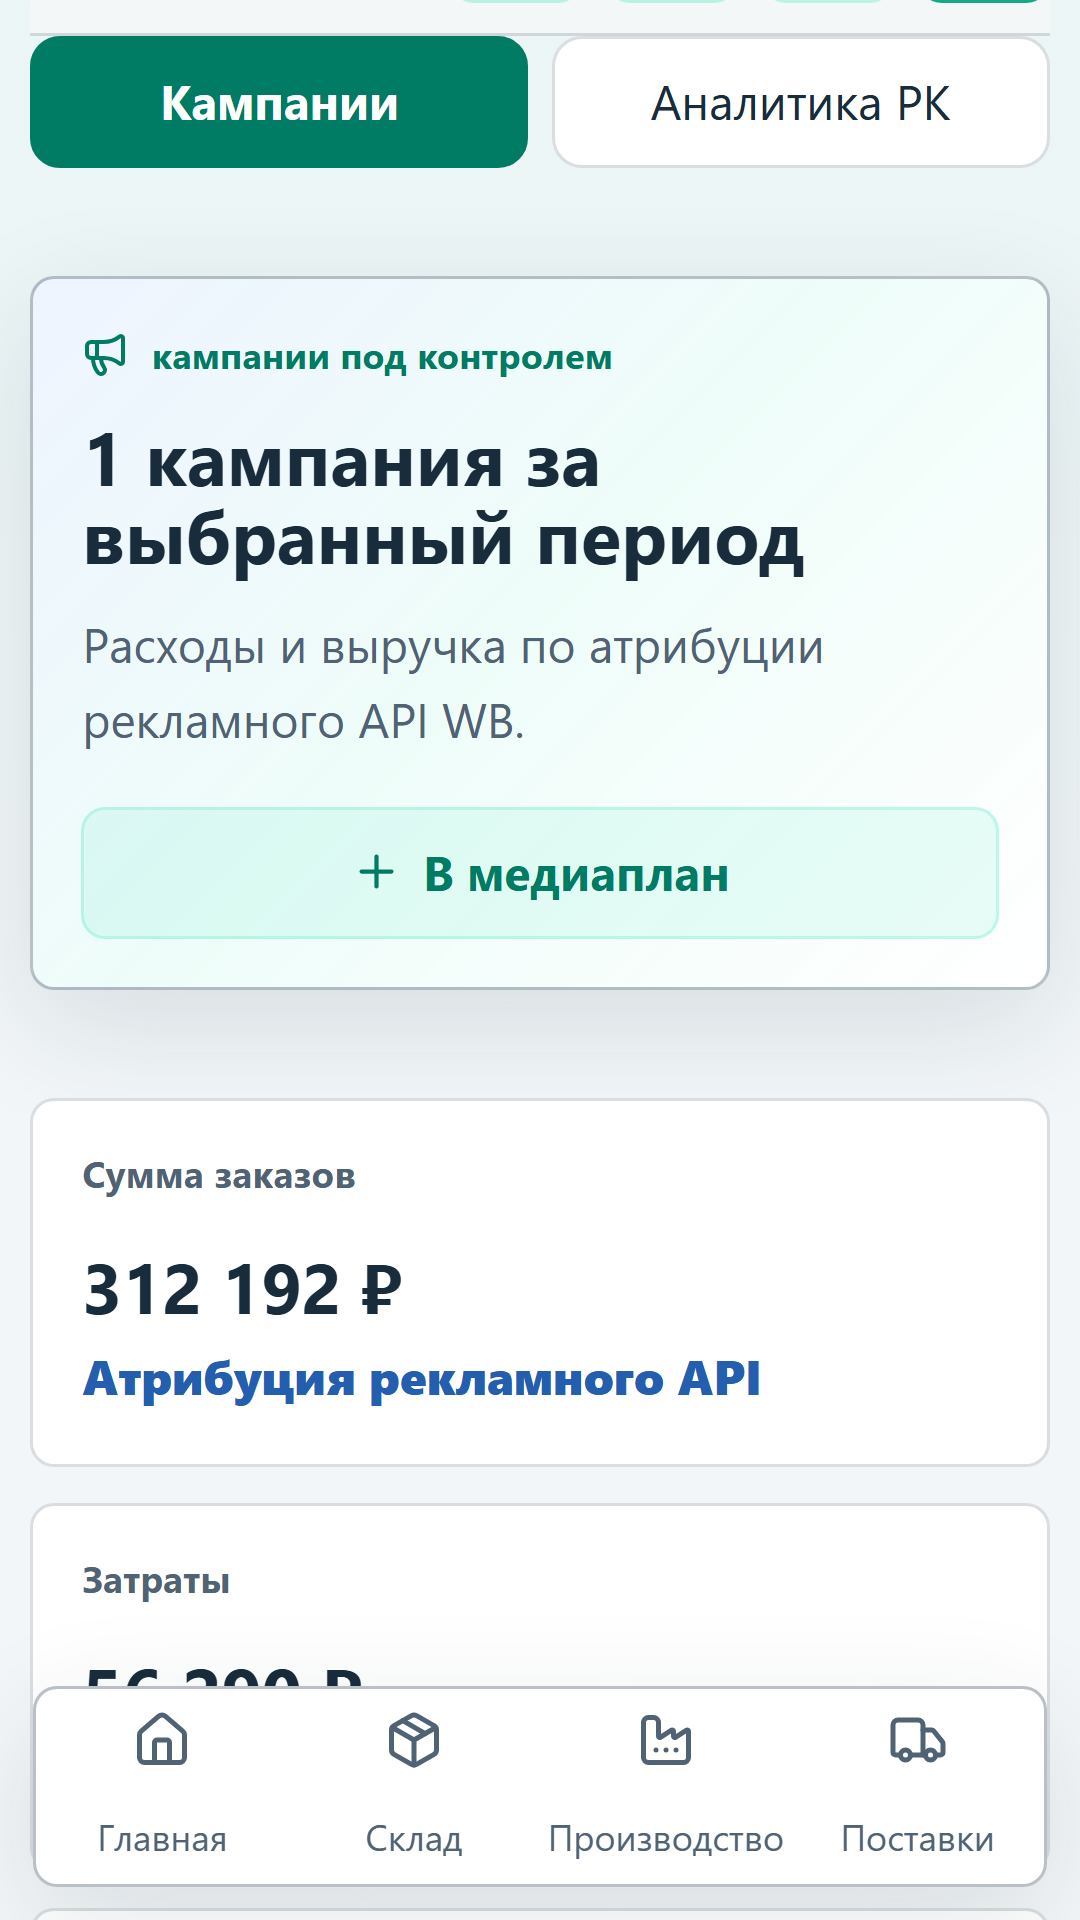
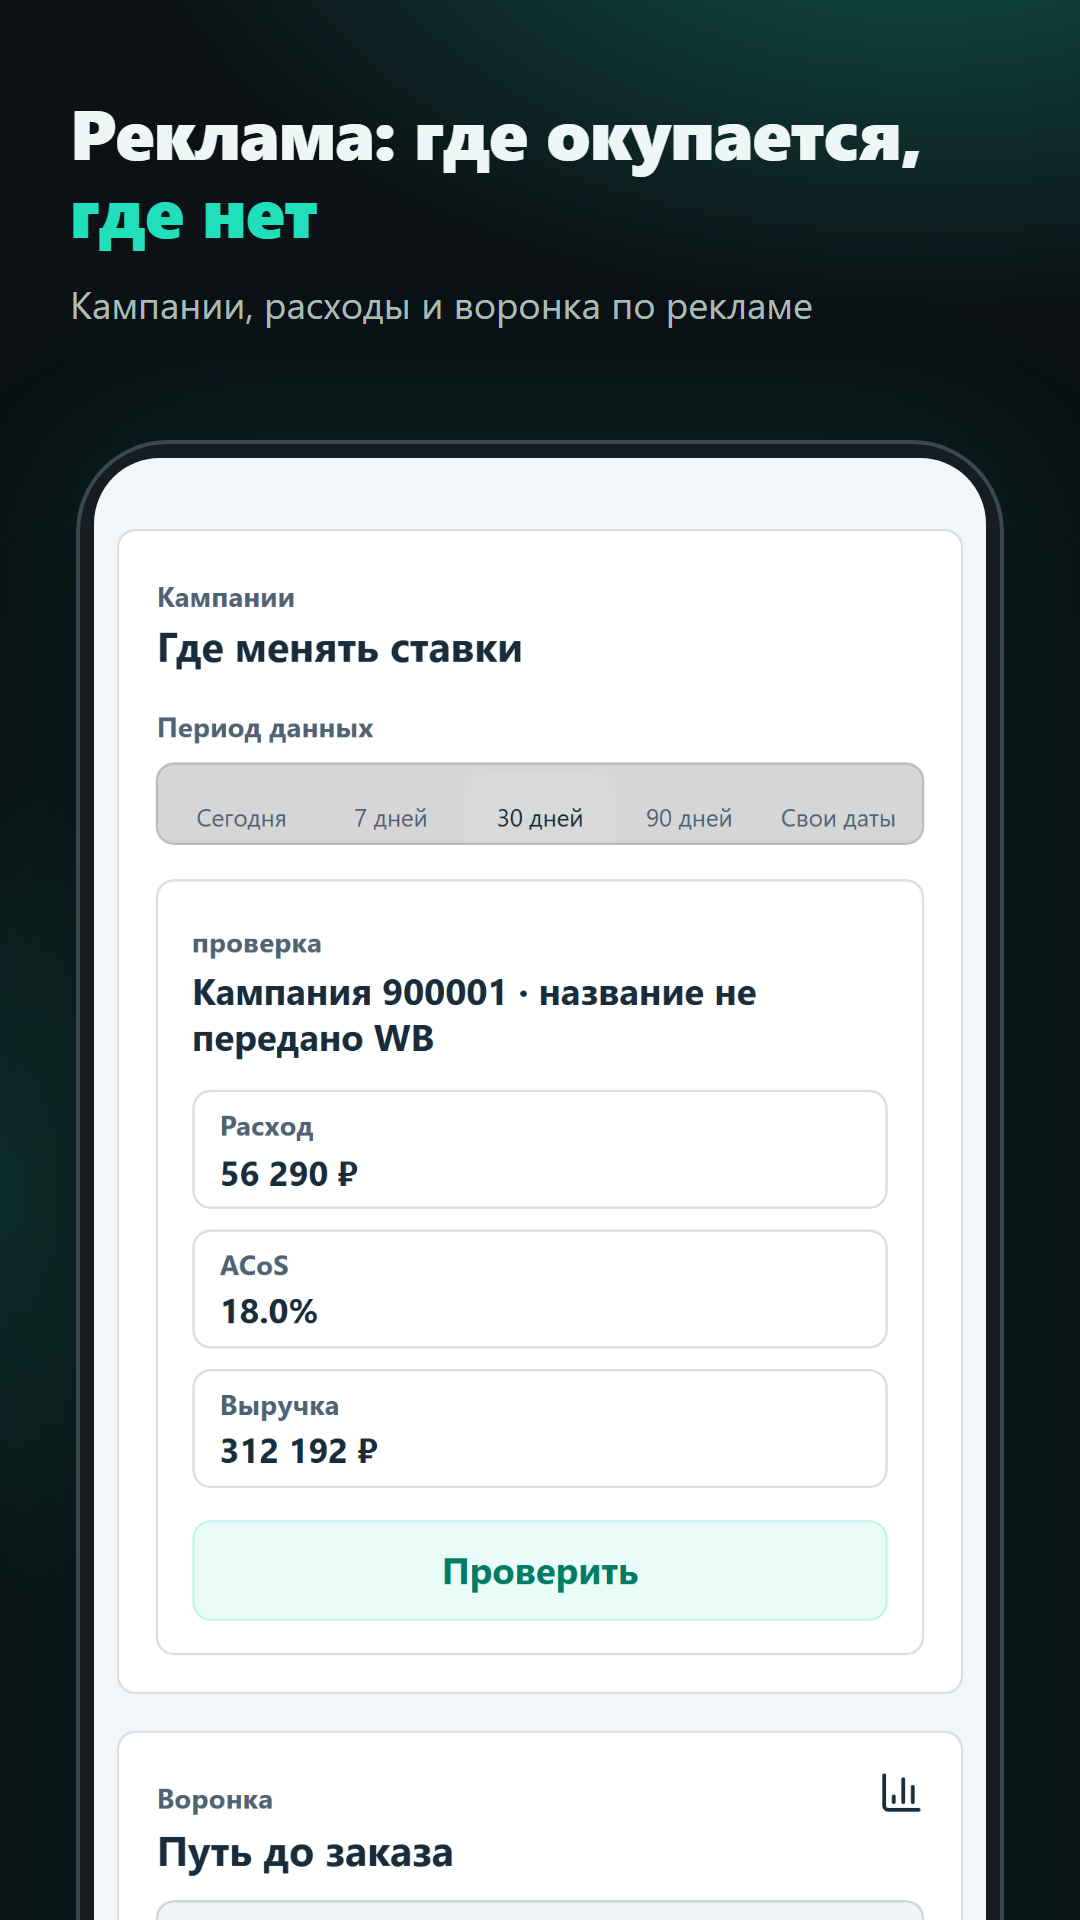
Rebuild store screenshots as composed marketing frames and add Play feature graphic
Raw 390x844@3x light-theme frames from the demo snapshot, composed via an HTML
template into Android 1080x1920 and iOS 1290x2796 PNGs; one command regenerates all.

diff --git a/mobile/store/compose/template.html b/mobile/store/compose/template.html
@@ -1,0 +1,45 @@
+<!doctype html>
+<html lang="ru"><head><meta charset="utf-8"><title>store compose</title>
+<!-- Rendered by scripts/store-shots.mjs; data arrives as JSON in location.hash: {kind:"shot"|"feature", title, sub, img, logo}. "|" in title = line break. -->
+<style>
+  :root { --u: calc(100vw / 1080); --teal: #22dfbb; --bg: #0b1115; }
+  * { box-sizing: border-box; margin: 0; }
+  html, body { width: 100vw; height: 100vh; overflow: hidden; background: var(--bg); }
+  body { position: relative; font-family: "Segoe UI", system-ui, -apple-system, Roboto, sans-serif; color: #eef7f5;
+    background:
+      radial-gradient(120vw 70vw at 85% -8%, rgba(34,223,187,.34), transparent 62%),
+      radial-gradient(90vw 60vw at -10% 62%, rgba(34,223,187,.14), transparent 65%),
+      var(--bg); }
+  .head { position: absolute; left: 0; right: 0; top: calc(var(--u) * 92); padding: 0 calc(var(--u) * 70); }
+  h1 { font-size: calc(var(--u) * 70); line-height: 1.12; font-weight: 800; letter-spacing: -.01em; }
+  h1 span { display: block; }
+  h1 span + span { color: var(--teal); }
+  p.sub { margin-top: calc(var(--u) * 30); font-size: calc(var(--u) * 38); line-height: 1.3; color: #a9bcb7; font-weight: 400; }
+  .phone { position: absolute; left: 7vw; width: 86vw; top: calc(var(--u) * 440); padding: calc(var(--u) * 14);
+    border-radius: calc(var(--u) * 92); background: #151d23; border: calc(var(--u) * 4) solid #3b4852;
+    box-shadow: 0 calc(var(--u) * 40) calc(var(--u) * 120) rgba(0,0,0,.6), 0 0 calc(var(--u) * 160) rgba(34,223,187,.16); }
+  .phone img { display: block; width: 100%; border-radius: calc(var(--u) * 66); }
+  /* feature graphic */
+  .feature { position: absolute; inset: 0; display: none; }
+  .feature .brand { position: absolute; left: 60px; top: 56px; display: flex; align-items: center; gap: 22px; }
+  .feature .brand img { width: 84px; height: 84px; }
+  .feature .brand b { font-size: 40px; letter-spacing: .08em; font-weight: 800; }
+  .feature .brand b i { font-style: normal; color: var(--teal); }
+  .feature h2 { position: absolute; left: 60px; right: 60px; top: 190px; font-size: 44px; line-height: 1.22; font-weight: 800; }
+  .feature h2 span { display: block; }
+  .feature h2 span + span { color: var(--teal); }
+  .feature .line { position: absolute; left: 60px; bottom: 56px; width: 120px; height: 6px; border-radius: 3px; background: var(--teal); }
+</style></head>
+<body>
+  <div class="head" id="head"><h1 id="t"></h1><p class="sub" id="s"></p></div>
+  <div class="phone" id="phone"><img id="i" alt=""></div>
+  <div class="feature" id="f"><div class="brand"><img id="logo" alt=""><b>MARKETS<i>HELPER</i></b></div><h2 id="ft"></h2><div class="line"></div></div>
+<script>
+  const d = JSON.parse(decodeURIComponent(location.hash.slice(1) || "%7B%7D"));
+  const lines = (t = "") => t.split("|").map((x) => `<span>${x}</span>`).join("");
+  if (d.kind === "feature") {
+    document.documentElement.style.setProperty("--u", "1px");
+    head.style.display = phone.style.display = "none"; f.style.display = "block";
+    ft.innerHTML = lines(d.title); logo.src = d.logo;
+  } else { t.innerHTML = lines(d.title); s.textContent = d.sub; i.src = d.img; }
+</script></body></html>

diff --git a/mobile/store/checklist.md b/mobile/store/checklist.md
@@ -33,7 +33,7 @@
 ## 3. Google Play
 - [ ] Аккаунт разработчика Play Console (разовый взнос 25 USD; для организаций нужен D-U-N-S; для личных аккаунтов новых разработчиков действует обязательное закрытое тестирование: 12+ тестировщиков 14 дней перед выходом в прод; проверьте актуальные правила).
 - [ ] Создать приложение, пакет `ru.marketshelper.app`.
-- [ ] Заполнить: карточка (`listing-ru.md`), иконка 512, feature graphic 1024x500 (нужно сделать: в проекте нет), скриншоты (`screenshots/android`), политика, Data safety (`data-safety-google.md`), Content rating, Target audience 18+, App access (`review-notes.md`), Account deletion URL.
+- [ ] Заполнить: карточка (`listing-ru.md`), иконка 512, feature graphic 1024x500 (`screenshots/feature-graphic-1024x500.png`), скриншоты (`screenshots/android`, 1080x1920), политика, Data safety (`data-safety-google.md`), Content rating, Target audience 18+, App access (`review-notes.md`), Account deletion URL.
 - [ ] Загрузить AAB в Internal testing, затем Closed/Production.
 - [ ] Push: создать проект Firebase, добавить Android-приложение, скачать `google-services.json` в `mobile/android/app/` (не коммитить), серверный ключ FCM (service account) хранить на сервере; см. README.
 
